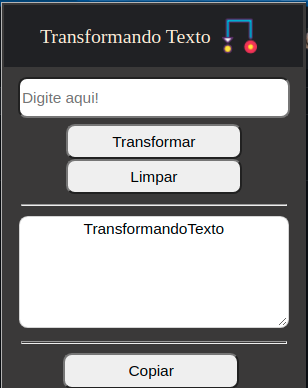
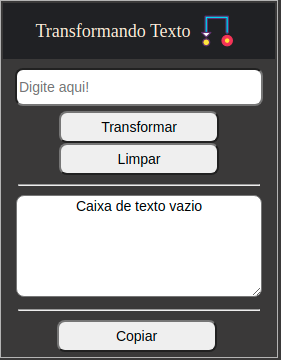
added image and changing texts names

Changed region(s): [[0.0, 0.0, 1.0, 1.0], [0.1139, 0.0611, 0.6833, 0.1222]]

diff --git a/js/script.js b/js/script.js
@@ -10,12 +10,11 @@ document.addEventListener("DOMContentLoaded", function () {
   let textTransform = () => {
     let text = document.querySelector("#text").value.trim();
     if (text == "") {
-      document.querySelector("#result").innerHTML = "Texto vazio";
+      document.querySelector("#result").innerHTML = "Caixa de texto vazio";
     } else {
       document.querySelector("#result").innerHTML = word(text);
     }
   };
-
 
   //Click button transform-word(transformar-palavra)
   document.querySelector("#btn-transform").addEventListener("click", () => {
@@ -57,6 +56,6 @@ document.addEventListener("DOMContentLoaded", function () {
     document.querySelector("#result").select();
     document.execCommand("copy");
 
-    document.querySelector("#sucess-copy").innerHTML = "Copied";
+    document.querySelector("#sucess-copy").innerHTML = "Copiado";
   });
 });

diff --git a/README.md b/README.md
@@ -2,9 +2,6 @@
 
 ------------------------------------------------------------------------------------------------------
 
-### Essa exetensão foi criada com o proposito de Tranformar a primeira letra em maiúscula e juntar o texto
+### Essa exetensão foi criada com o proposito de Tranformar a primeira letra em maiúscula e juntar o texto . Haverá  acresimo de funcionalidade em futuras versões .
 
-![app](/home/groot/Documentos/Extension-To-upper-Case/img/app.png)
-
-
-
+![app](/home/groot/Documentos/Extension-To-upper-Case/img/app.svg)
